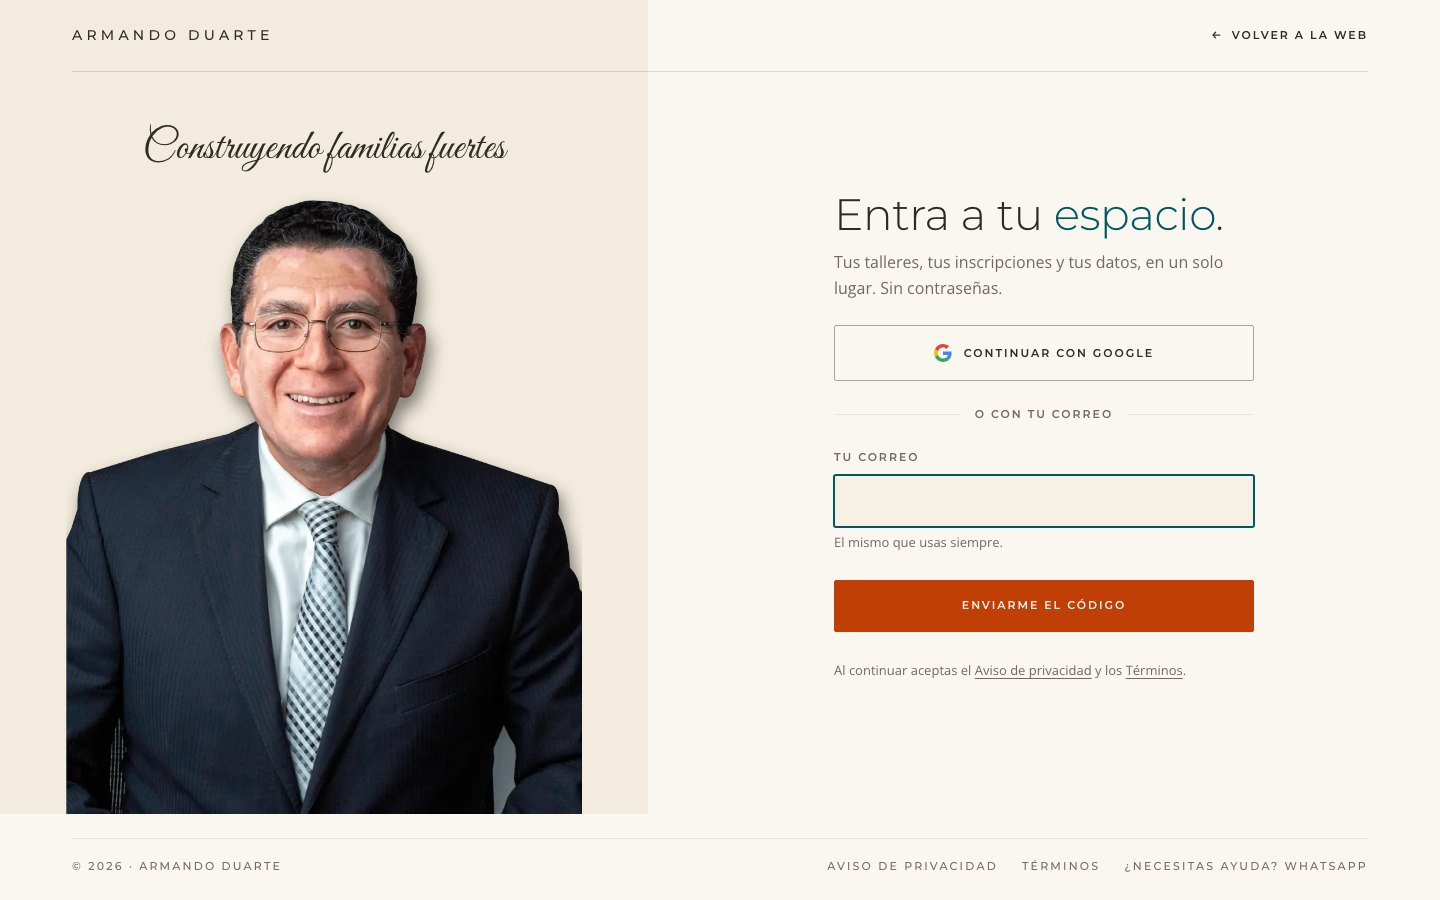
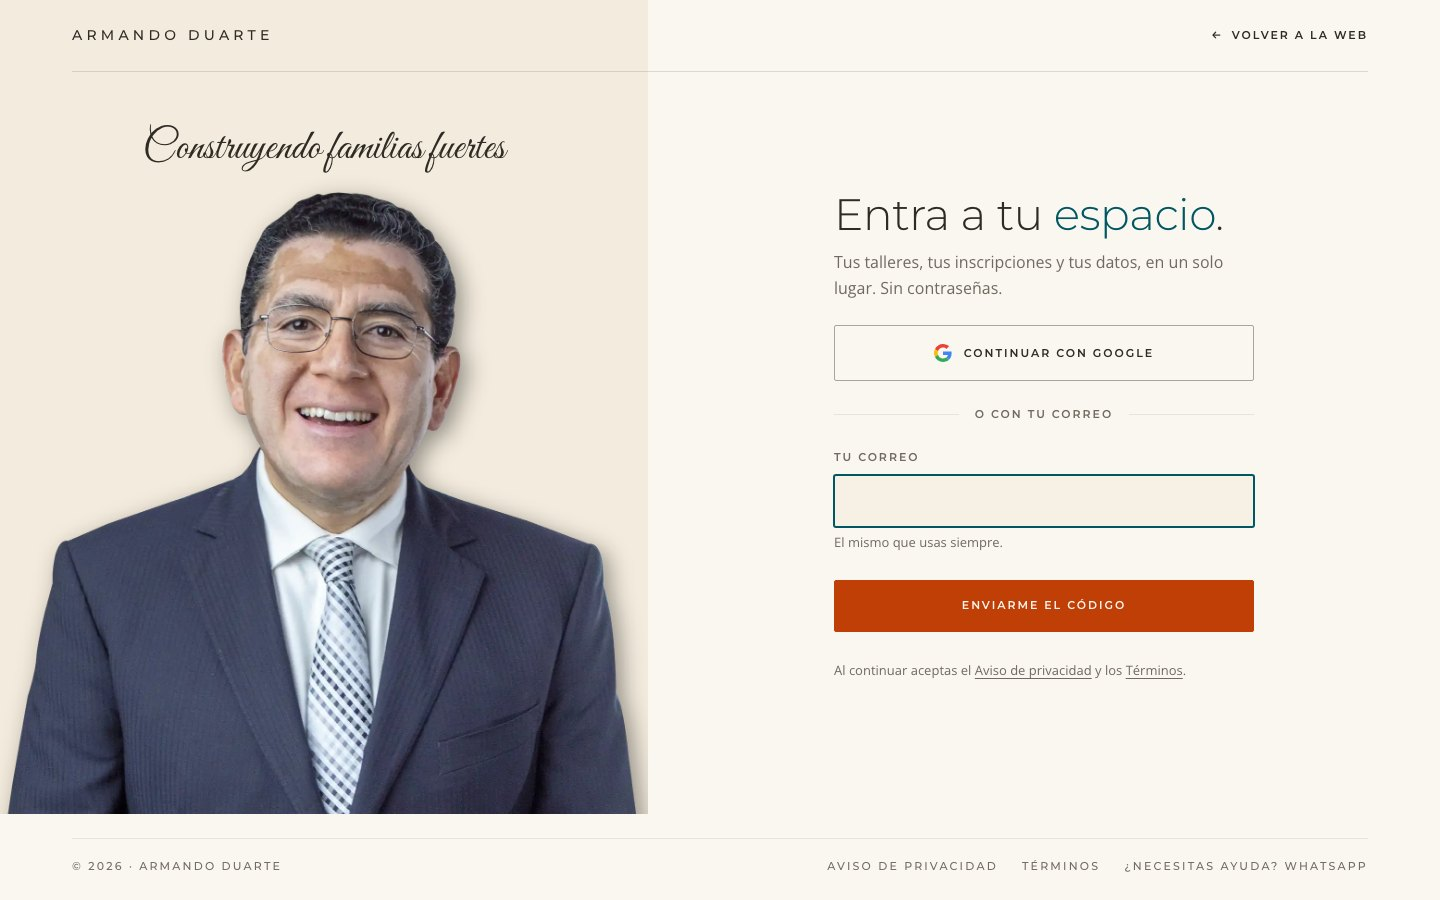
fix(familia): /entrar con de-pie, a todo el ancho del panel y cortado por su borde (auditoría del #46)
El busto recortado en rectángulo dejaba a la vista los cortes de los brazos y
un resto de silla. Ahora es de-pie-1400.webp (la silueta con alfa de #quien):
figura desde y=192 (debajo de la firma), foto al ancho del panel con la fila
55 (el pelo) en el borde de la figura, y el corte de abajo es el del panel.
El halo de arriba no se recorta (recortarlo dibujaba una línea sobre la
cabeza). Sale medio-cuerpo-900.webp, que ya no usa nadie.

Test: e2e/entrar-armando.spec.ts (reemplaza a entrar-busto). Mutaciones:
volver al busto, sin el margin-top de la fila 55, panel sin overflow:hidden.
Pendiente 16 en docs/tareas.md: los e2e de familia a la gate.

Changed region(s): [[0.0, 0.1867, 0.4688, 0.9022]]

diff --git a/apps/familia/e2e/entrar-armando.spec.ts b/apps/familia/e2e/entrar-armando.spec.ts
@@ -1,0 +1,98 @@
+import { expect, test } from '@playwright/test';
+import { PUERTO } from '../playwright.config';
+
+/**
+ * `/entrar`: Armando de pie debajo de la firma, cortado por el panel — orden #28
+ * (4), con la corrección de la auditoría del PR #46.
+ *
+ * A 1440×900 y 1920×1080 afirma:
+ *
+ *   · la imagen es **`de-pie`** (la silueta con alfa), no el busto recortado
+ *     en rectángulo —que dejaba a la vista los cortes de los brazos—;
+ *   · **la fila 55 del archivo** (donde arranca el pelo) cae en el borde de
+ *     arriba de la figura, ±1 px;
+ *   · el ancho de la imagen = el ancho del panel, ±1 px;
+ *   · la figura llega al borde de abajo del panel y la imagen sigue más abajo:
+ *     **el corte es el borde del panel**;
+ *   · **la cara entera**: de la fila 55 a la 755 (escaladas) queda dentro del
+ *     panel;
+ *   · la firma no se cruza con Armando: el pelo (fila 55) arranca debajo de
+ *     la firma. Lo de arriba de la fila 55 es el halo del archivo (alfa ≤ 30),
+ *     una sombra suave que no se recorta a propósito (ver `estilos.css`).
+ *
+ * Qué NO mira: debajo de 1100 px el panel no se monta (`usarAncho`).
+ *
+ * No corre en la gate (el guardián solo levanta Chromium para `apps/web`;
+ * pendiente en `docs/tareas.md`). Se corre a mano contra el build:
+ *
+ *   VITE_SUPABASE_URL=https://x.supabase.co VITE_SUPABASE_ANON_KEY=x pnpm --filter @codice/familia build
+ *   pnpm --filter @codice/familia test:e2e e2e/entrar-armando.spec.ts
+ */
+const VIEWPORTS = [
+  { width: 1440, height: 900 },
+  { width: 1920, height: 1080 },
+] as const;
+
+/** Las filas del archivo `de-pie` (1400×2791): el pelo y lo que se pide ver de la cara. */
+const ALTO_DEL_ARCHIVO = 2791;
+const FILA_DEL_PELO = 55;
+const FILAS_DE_LA_CARA = 700;
+
+for (const vp of VIEWPORTS) {
+  test(`/entrar a ${vp.width}×${vp.height}: Armando de pie, a todo el ancho del panel, debajo de la firma`, async ({ page }) => {
+    await page.setViewportSize(vp);
+    await page.goto(`http://127.0.0.1:${PUERTO}/entrar`, { waitUntil: 'networkidle' });
+    await page.evaluate(() => document.fonts.ready);
+    await page.waitForFunction(() => {
+      const img = document.querySelector('.panel img') as HTMLImageElement | null;
+      return !!img?.complete && img.naturalHeight > 0;
+    });
+
+    const m = await page.evaluate(() => {
+      const caja = (el: Element) => {
+        const r = el.getBoundingClientRect();
+        return { top: r.top, bottom: r.bottom, left: r.left, right: r.right, width: r.width, height: r.height };
+      };
+      const img = document.querySelector('.panel img') as HTMLImageElement;
+      return {
+        src: img.currentSrc,
+        natural: { ancho: img.naturalWidth, alto: img.naturalHeight },
+        ajuste: getComputedStyle(img).objectFit,
+        img: caja(img),
+        figura: caja(img.parentElement!),
+        recorta: getComputedStyle(document.querySelector('.panel')!).overflow,
+        panel: caja(document.querySelector('.panel')!),
+        firma: caja(document.querySelector('.panel__firma')!),
+      };
+    });
+
+    /* EL PISO, PRIMERO: que haya un panel, una figura y una foto que medir. */
+    expect(m.panel.width, 'no hay panel de Armando: ¿el ancho es de dos mitades?').toBeGreaterThan(400);
+    expect(m.figura.height, 'la figura mide 0').toBeGreaterThan(300);
+    expect(m.img.height, 'la foto no se pinta').toBeGreaterThan(300);
+    expect(m.firma.height, 'no está la firma').toBeGreaterThan(20);
+
+    expect(m.src, 'la foto del panel tiene que ser `de-pie` (la silueta con alfa), no el busto').toMatch(/\/img\/armando\/de-pie-1400\.webp$/);
+    expect(m.natural, 'el archivo `de-pie` es 1400×2791').toEqual({ ancho: 1400, alto: ALTO_DEL_ARCHIVO });
+    /* La caja es lo pintado: sin `contain` ni `cover` que la separen de lo que se ve. */
+    expect(m.ajuste, 'la foto se pinta a su caja').toBe('fill');
+    expect(Math.abs(m.img.height / m.img.width - ALTO_DEL_ARCHIVO / 1400), 'la foto está deformada').toBeLessThan(0.002);
+
+    const escala = m.img.height / ALTO_DEL_ARCHIVO;
+    const pelo = m.img.top + FILA_DEL_PELO * escala;
+    expect(Math.abs(pelo - m.figura.top), `la fila ${FILA_DEL_PELO} (el pelo) cae en ${pelo.toFixed(1)}, el borde de la figura en ${m.figura.top.toFixed(1)}`).toBeLessThanOrEqual(1);
+    expect(Math.abs(m.img.width - m.panel.width), `la foto mide ${m.img.width.toFixed(1)} de ancho y el panel ${m.panel.width.toFixed(1)}`).toBeLessThanOrEqual(1);
+    expect(Math.abs(m.img.left - m.panel.left), 'la foto no arranca en el borde del panel').toBeLessThanOrEqual(1);
+
+    expect(Math.abs(m.figura.bottom - m.panel.bottom), `la figura termina en ${m.figura.bottom}, el panel en ${m.panel.bottom}`).toBeLessThanOrEqual(1);
+    expect(m.recorta, 'el panel tiene que recortar: el corte de abajo es su borde').toBe('hidden');
+    expect(m.img.bottom, 'la foto termina antes del borde del panel: el corte no es el del panel').toBeGreaterThan(m.panel.bottom);
+
+    const finDeLaCara = pelo + FILAS_DE_LA_CARA * escala;
+    expect(finDeLaCara, `la cara no entra entera: la fila ${FILA_DEL_PELO + FILAS_DE_LA_CARA} cae en ${finDeLaCara.toFixed(0)} y el panel termina en ${m.panel.bottom.toFixed(0)}`).toBeLessThanOrEqual(m.panel.bottom);
+
+    expect(m.firma.bottom, `la firma (${m.firma.top.toFixed(0)}–${m.firma.bottom.toFixed(0)}) se cruza con Armando (desde ${m.figura.top.toFixed(0)})`).toBeLessThanOrEqual(m.figura.top);
+
+    console.log(`${vp.width}: foto ${m.img.width.toFixed(0)} de ancho (panel ${m.panel.width.toFixed(0)}) · pelo y=${pelo.toFixed(1)} · figura ${m.figura.top.toFixed(0)}–${m.figura.bottom.toFixed(0)} · cara hasta ${finDeLaCara.toFixed(0)} · firma ${m.firma.top.toFixed(0)}–${m.firma.bottom.toFixed(0)}`);
+  });
+}

diff --git a/apps/familia/src/estilos.css b/apps/familia/src/estilos.css
@@ -111,45 +111,35 @@ img,svg{display:block;max-width:100%}
 /* La firma, en la Great Vibes de la web. En `--tinta` y no en naranja: en esta
    pantalla el naranja es del botón y de nadie más (D26). */
 .panel__firma{font-family:var(--script);font-weight:400;font-size:var(--script-size);line-height:1.1;color:var(--tinta);text-align:center;padding:0 32px}
-/* El busto llena el panel de borde a borde (#18, decisión 2 del PR #32). La
-   foto termina en seco en los dos brazos: centrada o contra un solo borde,
-   alguno de los dos cortes quedaba a la vista como una línea en medio del
-   cálido. Llenando el ancho, el izquierdo coincide con el borde de la pantalla
-   y el derecho con el cambio a crema.
+/* ── Armando de pie, debajo de la firma, cortado por el panel (orden #28) ──
+   Germán en el smoke del 1/10: el busto de la #18 era «demasiado grande». El
+   primer arreglo de la #28 lo achicó entero con `contain` y dejó a la vista
+   los dos cortes rectos de los brazos y un resto de silla (auditoría del PR
+   #46). Ahora es `de-pie`, la silueta con alfa de `#quien`:
 
-   Y el panel NO decide la altura de la página. La primera versión ponía la
-   foto a `width:100%` en el flujo: a 1440 medía 782 px de alto, estiraba la
-   fila y mandaba el pie debajo del pliegue (la captura medía 1073 de 900). Por
-   eso la foto vive en una caja que toma **el espacio que queda** debajo de la
-   firma (`flex:1 1 0`, sin aportar altura propia) y la llena con
-   `object-fit:cover` anclado arriba: siempre cubre el ancho, la cabeza queda
-   entera, y lo que sobra se recorta abajo, contra la línea del pie — que es
-   donde un corte se lee como apoyo (la regla de la #19 B). */
+   · la figura arranca en **y = 192** —la línea de la cabecera (72) más los
+     120 px que dejan pasar la firma, que termina en el 172 a 1440 y en el 183
+     a 1920— y llega al borde de abajo del panel;
+   · la imagen ocupa **el ancho del panel** y su alto sale del ancho;
+   · **la fila 55 del archivo** (donde arranca el pelo: 30–54 es un halo de
+     alfa ≤ 30, medido en la #28 A) cae en el borde de arriba de la figura.
+     Por eso `margin-top` negativo de 55/1400 **del ancho** —un margen en %
+     se mide sobre el ancho del contenedor, que es el del panel— y no
+     `object-position: top`, que dejaría el halo arriba y el pelo 25 px más
+     abajo;
+   · el halo (filas 0–54) queda **por encima** de la figura, sin recortar:
+     sobre el cálido es una sombra suave, y recortarlo en el 192 dibujaba una
+     línea recta sobre la cabeza (se vio en la primera captura de esta
+     corrección). Abajo corta el panel, que ya es `overflow:hidden`: el corte
+     es su borde, y se lee como apoyo (la regla de la #19 B).
+
+   Lo vigila `e2e/entrar-armando.spec.ts`. */
 .panel__foto{position:relative;flex:1 1 0;min-height:0;width:100%;margin-top:32px}
-.panel__busto{position:absolute;inset:0;width:100%;height:100%;object-fit:cover;object-position:center top}
-/* ── Armando más chico, entero, encuadrado por la cabecera (orden #28, 4) ──
-   Germán en el smoke del 1/10: «demasiado grande; debería estar con el borde
-   de la línea del header». Con `cover` a 1440 la cara ocupaba casi la mitad
-   del panel y el busto se cortaba al pecho.
-
-   Ahora la figura arranca **en la línea de la cabecera** (72 px, el borde de
-   abajo de `.cab__dentro`) y termina en el borde de abajo del panel, en
-   absoluto: no le aporta altura a nada. El busto se pinta **entero** adentro
-   (`contain`, anclado abajo y centrado). La firma se queda donde estaba.
-
-   Entero a todo el alto de la figura (742 px a 1440×900) el busto arrancaba en
-   la línea y tapaba la firma (126–172 px). Por eso, como decía la orden, se
-   limita a `calc(100% − 120px)`: a 1440×900 se pinta en 515×622 desde el
-   px 192, 20 px por debajo de la firma (126–172); a 1920×1080, 664×802
-   desde el 192, y la firma termina en el 183.
-
-   Lo que esto deja ver, dicho: la foto termina en seco en los dos brazos, y
-   con el busto más angosto que el panel los dos cortes quedan dentro del
-   cálido (era la razón del `cover` de la #18). Está en la captura de la #28 B. */
+.panel__armando{display:block;width:100%;height:auto}
 @media (min-width:1100px){
   .marco--con-armando .panel{position:relative}
-  .marco--con-armando .panel__foto{position:absolute;top:72px;bottom:0;left:0;right:0;margin-top:0}
-  .marco--con-armando .panel__busto{top:auto;bottom:0;left:0;right:0;width:100%;height:100%;max-height:calc(100% - 120px);object-fit:contain;object-position:center bottom}
+  .marco--con-armando .panel__foto{position:absolute;top:calc(72px + 120px);bottom:0;left:0;right:0;margin-top:0}
+  .marco--con-armando .panel__armando{position:absolute;top:0;left:0;width:100%;height:auto;margin-top:calc(-100% * 55 / 1400)}
 }
 
 .titulo{font-family:var(--display);font-weight:300;font-size:clamp(30px,3.4vw,44px);line-height:1.1;letter-spacing:-.01em;color:var(--tinta);text-wrap:balance}

diff --git a/apps/familia/src/comun/Piezas.tsx b/apps/familia/src/comun/Piezas.tsx
@@ -78,21 +78,23 @@ function Cabecera() {
 
 /**
  * A · el mundo de Armando, a ≥ 1100 px: el panel cálido a sangre, la firma
- * arriba y el busto apoyado en el borde de abajo, como en «Sobre el
- * facilitador» de `/merida`.
+ * arriba y Armando de pie debajo, cortado por el borde de abajo del panel.
  *
- * El busto es la imagen más pesada de la pantalla y, en escritorio, el LCP. Por
- * eso: **un solo WebP**, `loading` normal y `fetchpriority="high"`.
+ * ── Por qué `de-pie` y no el busto (orden #28, auditoría del PR #46) ─────
+ * Hasta la #28 era `medio-cuerpo-900.webp`, un busto recortado en rectángulo:
+ * termina en seco en los dos brazos y trae un resto de silla. Con `cover` a
+ * todo el panel esos cortes coincidían con los bordes; cuando la #28 achicó a
+ * Armando quedaron a la vista dentro del cálido. `de-pie` es la silueta con
+ * alfa de `#quien` (1400×2791, el mismo archivo que la web): sus bordes son
+ * los de Armando, sin cortes ni silla, y el único corte es el del borde del
+ * panel, que se lee como apoyo (la regla de la #19 B).
  *
- * Es el recorte de **900** (67 KB) y no el de 560 (42 KB), por decisión de
- * dirección (auditoría del PR #32, 30/9): la foto termina en seco en los dos
- * brazos, y con el de 560 a ~470 px el corte del brazo izquierdo quedaba a la
- * vista a 1440. Con el de 900 el busto ocupa **el ancho entero del panel** y
- * los dos cortes coinciden con sus bordes. Premium primero: 25 KB más, en una
- * pantalla que se visita una vez por sesión y que en el teléfono no la baja
- * (`usar-ancho.ts`). Con `alt` vacío porque
- * es ambiente: el nombre de Armando ya lo dice el wordmark de al lado, y un
- * lector de pantalla no gana nada con oír «Armando Duarte» dos veces seguidas.
+ * Es la imagen más pesada de la pantalla y, en escritorio, el LCP. Por eso:
+ * **un solo WebP**, `loading` normal y `fetchpriority="high"`. El de 1400 y no
+ * el de 900: el panel mide 864 px de ancho a 1920. En el teléfono no se baja
+ * (`usar-ancho.ts`). Con `alt` vacío porque es ambiente: el nombre de Armando
+ * ya lo dice el wordmark de al lado, y un lector de pantalla no gana nada con
+ * oír «Armando Duarte» dos veces seguidas.
  *
  * La firma **no** va en naranja, aunque en el pie de la web sí: en esta
  * pantalla el naranja es del botón y de nadie más (B.2, D26). Va en `--tinta`.
@@ -104,10 +106,10 @@ function PanelDeArmando() {
       <p className="panel__firma">{t('web:comun.marca.tagline')}</p>
       <div className="panel__foto">
         <img
-          className="panel__busto"
-          src="/img/armando/medio-cuerpo-900.webp"
-          width={900}
-          height={1087}
+          className="panel__armando"
+          src="/img/armando/de-pie-1400.webp"
+          width={1400}
+          height={2791}
           alt=""
           fetchPriority="high"
           decoding="async"

diff --git a/apps/familia/src/comun/la-entrada-a-la-altura.test.tsx b/apps/familia/src/comun/la-entrada-a-la-altura.test.tsx
@@ -94,7 +94,7 @@ describe('B y C · el marco', () => {
     expect(document.querySelector('.panel')).toBeNull();
     unmount();
     render(<Entrar />);
-    expect(document.querySelector('.panel .panel__busto')).not.toBeNull();
+    expect(document.querySelector('.panel .panel__armando')).not.toBeNull();
   });
 
   it('EL CASO de Lighthouse: panel o retrato, nunca las dos imágenes a la vez', () => {

diff --git a/docs/informes/28-b/LEEME.md b/docs/informes/28-b/LEEME.md
@@ -1,37 +1,44 @@
-# Orden Códice #28 · PR B — `/entrar`: Armando más chico, entero, dentro del panel
+# Orden Códice #28 · PR B — `/entrar`: Armando de pie, debajo de la firma
 
 Capturas: `entrar-1440-antes.jpg`, `entrar-1440-despues.jpg` y `entrar-1920-despues.jpg`.
 
-## Qué se hizo
+## Qué se hizo (con la corrección de la auditoría del PR #46)
 
-- La figura (`.panel__foto`) pasa a **absoluta** dentro del panel. Arranca en la **línea de la cabecera** (y = 72, el borde de abajo de `.cab__dentro`) y termina en el **borde de abajo del panel**.
-- El busto se pinta **entero**: `object-fit: contain`, anclado abajo y centrado. La firma no se movió.
-- **A 1440 el busto tocaba la firma**: entero a todo el alto (742 px) arrancaba en el 72, y la firma va de 126 a 172. Por eso, como pide la orden, se limita a `max-height: calc(100% − 120px)`. Queda así:
+- **La foto es `de-pie-1400.webp`**, la silueta con alfa de `#quien` (el mismo archivo que la web, copiado a `apps/familia/public`), en lugar del busto recortado en rectángulo. Se fue `medio-cuerpo-900.webp`, que ya no usaba nadie. Con `de-pie` no hay cortes rectos en los brazos ni restos de silla.
+- **El encuadre:**
+  - la figura arranca en **y = 192**: la línea de la cabecera (72) más 120 px, debajo de la firma;
+  - llega al borde de abajo del panel, y la foto ocupa **el ancho del panel**;
+  - **la fila 55 del archivo** (donde arranca el pelo) cae justo en el 192;
+  - el panel corta la foto abajo.
+- La clase pasó de `panel__busto` a `panel__armando`, con el test de Vitest al día.
 
-| | busto pintado | desde y | firma | figura |
-|---|---|---|---|---|
-| 1440×900 | 515×622 | 192 | 126–172 | 72–814 |
-| 1920×1080 | 664×802 | 192 | 137–183 | 72–994 |
+| | foto | pelo (fila 55) | cara hasta (fila 755) | firma | panel |
+|---|---|---|---|---|---|
+| 1440×900 | 648 de ancho | 192 | 516 | 126–172 | 0–814 |
+| 1920×1080 | 864 de ancho | 192 | 624 | 137–183 | 0–994 |
 
-- Debajo de 1100 px no cambia nada (el panel no se monta).
+## Dos cosas distintas de lo que decía la corrección, dichas
+
+1. **No se usa `object-fit: cover; object-position: top center`.** Con eso arriba quedaría la fila 0 (el halo) y el pelo caería ~25 px más abajo del 192. Por eso la foto va a su tamaño (ancho del panel, alto según la proporción) y sube 55/1400 de su ancho con `margin-top` negativo. El resultado visual es el que pedía la corrección: ancho del panel, corte abajo, cabeza arriba.
+2. **El halo no se recorta.** El primer intento recortaba la figura con `overflow:hidden` y dibujaba una línea recta sobre la cabeza: las filas 30–54 (alfa ≤ 30) son una sombra suave que sobre el cálido sí se nota. Ahora el halo queda por encima del 192 (hasta ~180 a 1440 y ~177 a 1920) como en `#quien`. A 1920 la sombra toca el rango vertical de la firma (137–183), pero el pelo arranca debajo.
 
 ## Test
 
-`apps/familia/e2e/entrar-busto.spec.ts`, a 1440 y 1920, comprueba:
-- que el rectángulo **pintado** (natural × escala, según `object-position`) cabe entero en la figura, ±1 px, apoyado abajo y centrado;
-- que la figura va de la línea de la cabecera al borde del panel, ±1 px;
-- que la firma no se cruza con el busto.
+`apps/familia/e2e/entrar-armando.spec.ts`, a 1440 y 1920. Comprueba:
+- que la foto es `de-pie` (1400×2791, sin deformar);
+- que la fila 55 cae en el borde de la figura (±1) y que la foto mide el ancho del panel (±1);
+- que la figura llega al borde del panel y que la foto sigue de largo (el corte es del panel, que recorta);
+- que la cara entera (filas 55 a 755) queda dentro del panel;
+- que la firma termina antes del pelo.
 
 | mutación | cae en |
 |---|---|
-| volver a `cover` | «el busto (cover) se sale 121 px (1440) / 40 px (1920) por arriba: no se ve entero» |
-| sin el `max-height` | «la firma (126–172) se cruza con el busto (desde 72)» |
-| la figura con `top:0` | «la figura arranca en 0, la línea de la cabecera en 72» |
+| volver al busto | «la foto del panel tiene que ser `de-pie`, no el busto» |
+| sin el `margin-top` de la fila 55 | «la fila 55 (el pelo) cae en 217,5 (1440) / 225,9 (1920), el borde de la figura en 192» |
+| el panel sin `overflow:hidden` | «el panel tiene que recortar: el corte de abajo es su borde» (lo caza el estilo computado, no lo pintado) |
 
 En los tres casos, al devolver el archivo volvió a verde.
 
-## Lo que decide dirección
+## Pendiente
 
-1. **Los cortes de los brazos se ven.** La foto termina en seco en los dos brazos. Con `cover` (#18) esos cortes coincidían con los bordes del panel; ahora que el busto es más angosto, quedan como dos líneas verticales dentro del cálido. Abajo a la izquierda, además, asoma un resto del respaldo de la silla del archivo (ver `entrar-1440-despues.jpg`). Si molesta, hay dos salidas: pedirle a Lucía un busto con los hombros desvanecidos, o fundir los lados con una máscara (sería una decisión de diseño nueva).
-2. **El busto no arranca en la línea.** Con el límite de 120 px que pide la orden para no tapar la firma, la caja arranca en el 192. La cabeza queda unos 10 px más abajo, por el aire transparente del archivo.
-3. **Este test no corre en la gate.** El guardián solo levanta Chromium para la web (`apps/web`); el `e2e/` de `apps/familia` se corre a mano, como F.4. Para que entre a `pnpm test` hay que tocar el guardián, y eso no lo pide la orden.
+- Este test no corre en la gate. Dirección lo aceptó por hoy y queda en `docs/tareas.md` (n.º 16) como orden propia.

diff --git a/docs/tareas.md b/docs/tareas.md
@@ -1087,3 +1087,15 @@ sacándole el problema de encima al formato.
 
 Los cuatro naranja de «Cuatro núcleos» siguen siendo los PNG de Lucía: ésos ya
 llegaban a 2× y no había motivo para tocarlos.
+
+### 16. Los e2e de `apps/familia` no corren en la gate · **pendiente: orden propia, chica** (dirección, 1/10/2026)
+
+El guardián de guardianes levanta Chromium solo para `apps/web`
+(`@codice/navegador`). `apps/familia/e2e/entrar-armando.spec.ts` (orden #28 B)
+se corre a mano contra el build, igual que F.4. Dirección lo aceptó por hoy en
+la auditoría del PR #46 y lo deja para una orden propia: **meter los e2e de
+`apps/familia` en la gate**, con su reporte, su piso en `qa/piso-de-tests.md`
+y F.4 en `qa/skips-permitidos.md` (necesita un preview de verdad).
+
+El caso: un test que nadie corre es un test que no existe, y éste ya tiene
+mutaciones que dependen de que alguien se acuerde.
